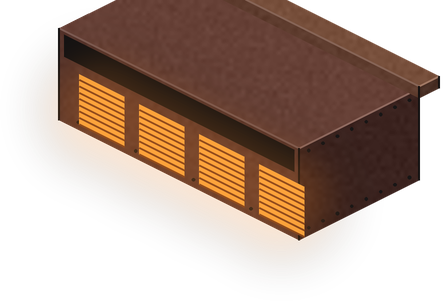
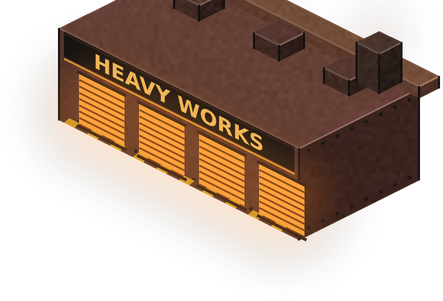
Harrow props polish: forge_hall (sign lettering, hazard dock, roof vents), guild_counter (counter lettering, crates, hanging scale), h_junk (contrast, ember glints, shadow); enemy_dirs retries batch failures solo

diff --git a/tools/town2/gen_props.py b/tools/town2/gen_props.py
@@ -102,6 +102,18 @@ c.d.line([P(1.0,.4,40),P(1.5,.4,40),P(1.5,.4,0)],fill=(60,52,50,255),width=9*SS)
 # steam vents glow
 c.light(*P(1.5,.4,44),22*SS,(255,160,60),110)
 c.finish('furnace_tower',10)
+
+def face_text(c,text,A,B,hgt,col,fsz=64,glowc=None):
+    """Text laid onto an iso wall face: A,B = bottom-left / bottom-right points (px), hgt = face height in px (drawn upward)."""
+    f=font(fsz); tmp=Image.new('RGBA',(900,150),(0,0,0,0)); d=ImageDraw.Draw(tmp); bb=d.textbbox((0,0),text,font=f); d.text((450-(bb[2]-bb[0])/2,75-(bb[3]-bb[1])/2-bb[1]),text,font=f,fill=col+(255,))
+    bb=tmp.getbbox(); tmp=tmp.crop(bb); w,h=tmp.size; dx,dy=B[0]-A[0],B[1]-A[1]; L=math.hypot(dx,dy); sc=min(L*.86/w,hgt*.7/h); tmp=tmp.resize((max(1,int(w*sc)),max(1,int(h*sc))),Image.LANCZOS); w,h=tmp.size
+    m=(A[0]+dx*.5,A[1]+dy*.5-hgt*.5); slope=dy/dx if dx else 0
+    # shear the text vertically so it follows the face's baseline slope
+    sh=tmp.transform((w,int(h+abs(slope)*w)+2),Image.AFFINE,(1,0,0,-slope,1,-(slope*w if slope<0 else 0)*-1 if False else (0 if slope>=0 else -slope*w)),Image.BICUBIC)
+    pos=(int(m[0]-w/2),int(m[1]-h/2-(slope*w/2)))
+    c.im.alpha_composite(sh,(max(0,pos[0]),max(0,pos[1])))
+    if glowc: 
+        g=sh.copy(); c.glow.alpha_composite(g,(max(0,pos[0]),max(0,pos[1])))
 # --- forge_hall (Heavy Works Parts): long low industrial hall with big oxide-red sign slab, loading dock, roller shutter glow ---
 c=Canvas(560,380); ox,oy=250*SS,150*SS
 c.box(-2.4,-1.2,4.8,2.4,0,92,ox,oy,(104,66,56),(86,52,44),(60,36,32),seed=31)
@@ -113,6 +125,16 @@ for k in range(4):
     c.light(*P(x0+.45,1.2,32),60*SS,(255,140,40),150)
 c.d.polygon([P(-2.3,1.2,66),P(2.3,1.2,66),P(2.3,1.2,88),P(-2.3,1.2,88)],fill=(20,18,18,255))
 for k in range(0,9): c.d.polygon([P(-2.3+k*.55,1.2,66),P(-2.3+k*.55+.27,1.2,66),P(-2.3+k*.55+.07,1.2,88),P(-2.3+k*.55-.2,1.2,88)],fill=(210,170,40,255)) if False else None
+# polish: sign slab lettering, hazard chevrons on the dock edge, roof vents + stacks with ember glow, shutter frames
+face_text(c,'HEAVY WORKS',P(-2.3,1.2,66),P(2.3,1.2,66),22*SS,(255,196,96),fsz=72,glowc=True)
+c.d.line([P(-2.3,1.2,64),P(2.3,1.2,64)],fill=(230,150,50,255),width=2*SS); c.d.line([P(-2.3,1.2,90),P(2.3,1.2,90)],fill=(40,28,24,255),width=3*SS)
+for k in range(10):
+    a=-2.3+k*.46; c.d.polygon([P(a,1.2,0),P(a+.2,1.2,0),P(a+.3,1.2,7),P(a+.1,1.2,7)],fill=(210,160,40,255))
+for k in range(4):
+    x0=-2.0+k*1.2; c.d.line([P(x0-.04,1.2,58),P(x0+.94,1.2,58)],fill=(40,26,22,255),width=3*SS); c.d.line([P(x0-.04,1.2,4),P(x0+.94,1.2,4)],fill=(40,26,22,255),width=3*SS)
+for vx in (-1.4,0.2,1.6):
+    c.box(vx,-.6,.5,.5,104,16,ox,oy,(86,56,48),(66,42,36),(46,30,26),seed=60+int(vx*10),rivets=False); c.light(*P(vx+.25,-.35,122),14*SS,(255,140,50),150)
+c.box(1.9,-.9,.45,.45,104,40,ox,oy,(70,52,46),(54,40,36),(38,28,24),seed=70,rivets=False); c.light(*P(2.12,-.68,148),20*SS,(255,120,40),160)
 c.finish('forge_hall',12)
 # --- guild_counter (Retirees' Guild reclaim counter): timber-and-sheet shack with hanging lamps, hooks, counter ---
 c=Canvas(420,330); ox,oy=190*SS,120*SS
@@ -126,6 +148,12 @@ for k in (-1,1):
 # corrugated awning
 c.d.polygon([P(-2.0,1.6,86),P(2.0,1.6,86),P(2.0,.4,112),P(-2.0,.4,112)],fill=(120,52,38,255))
 for k in range(12): a=-2.0+k*.333; c.d.line([P(a,1.6,86),P(a,.4,112)],fill=(86,36,26,255),width=2*SS)
+# polish: painted guild board, stacked reclaim crates and a hanging scale
+face_text(c,"RETIREES' GUILD",P(-1.9,1.4,0),P(1.9,1.4,0),26*SS,(236,214,150),fsz=60)
+c.box(1.5,.2,.7,.7,0,22,ox,oy,(100,80,58),(80,62,44),(56,42,30),seed=47,rivets=False); c.box(1.6,.3,.5,.5,22,16,ox,oy,(110,90,64),(88,70,50),(62,48,34),seed=48,rivets=False)
+c.box(-2.2,.3,.6,.6,0,18,ox,oy,(92,74,54),(74,58,42),(52,40,28),seed=49,rivets=False)
+for k in range(3):
+    hx=-.9+k*.9; a=P(hx,1.0,30); c.d.line([a,(a[0],a[1]+14*SS)],fill=(30,26,24,255),width=2*SS); c.d.ellipse([a[0]-5*SS,a[1]+14*SS,a[0]+5*SS,a[1]+24*SS],fill=(150,150,140,255))
 c.finish('guild_counter',10)
 # --- tram_platform + car (Reach Line transit) ---
 c=Canvas(640,380); ox,oy=300*SS,120*SS
@@ -167,3 +195,15 @@ c.box(-.9,-.55,1.8,1.1,14,34,ox,oy,(90,70,60),(72,56,48),(52,40,34),seed=91)
 c.d.polygon([P(-.8,-.45,48),P(.8,-.45,48),P(.8,.45,48),P(-.8,.45,48)],fill=(255,126,34,255)); c.light(*P(0,0,48),60*SS,(255,110,30),170)
 for (xp,yp) in ((-.6,.6),(.6,.6)): c.d.ellipse([P(xp,yp,10)[0]-12*SS,P(xp,yp,10)[1]-12*SS,P(xp,yp,10)[0]+12*SS,P(xp,yp,10)[1]+12*SS],fill=(22,20,20,255))
 c.finish('slag_cart',8)
+# --- h_junk polish: crisper scrap heap with ember glints and a soft contact shadow ---
+def polish_junk():
+    p=f'{OUT}/h_junk.png'
+    if not os.path.exists(p): return
+    from PIL import ImageEnhance
+    im=Image.open(p).convert('RGBA'); a=im.split()[3]; rgb=im.convert('RGB'); rgb=ImageEnhance.Contrast(rgb).enhance(1.35); rgb=rgb.filter(ImageFilter.UnsharpMask(2,120,2)); rgb=ImageEnhance.Brightness(rgb).enhance(1.08)
+    arr=np.array(rgb).astype(float); lum=arr.mean(-1); r=np.random.RandomState(7); mask=(lum>np.percentile(lum[np.array(a)>200],93))&(r.rand(*lum.shape)<.5)&(np.array(a)>200)
+    arr[mask]=arr[mask]*.4+np.array([255,150,60])*.6
+    out=Image.fromarray(np.clip(arr,0,255).astype(np.uint8)).convert('RGBA'); out.putalpha(a)
+    pad=Image.new('RGBA',(out.width,out.height+10),(0,0,0,0)); sh=Image.new('RGBA',pad.size,(0,0,0,0)); ImageDraw.Draw(sh).ellipse([out.width*.08,out.height*.62,out.width*.92,out.height+8],fill=(0,0,0,110)); sh=sh.filter(ImageFilter.GaussianBlur(6))
+    pad=Image.alpha_composite(pad,sh); pad.alpha_composite(out,(0,0)); pad.save(p); print('h_junk',pad.size)
+polish_junk()
